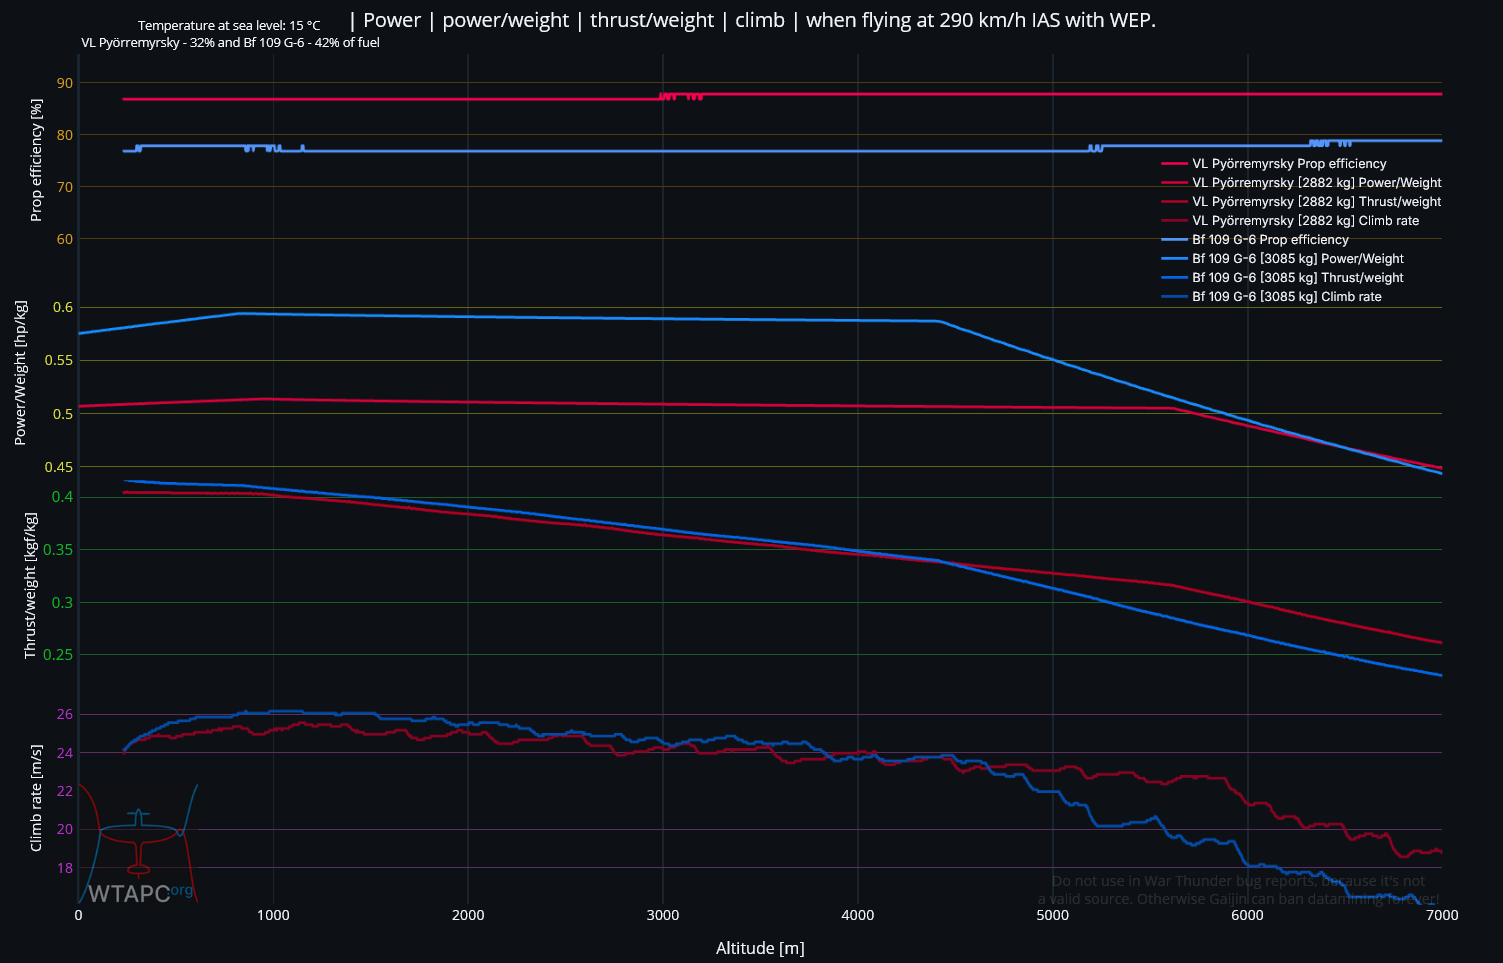
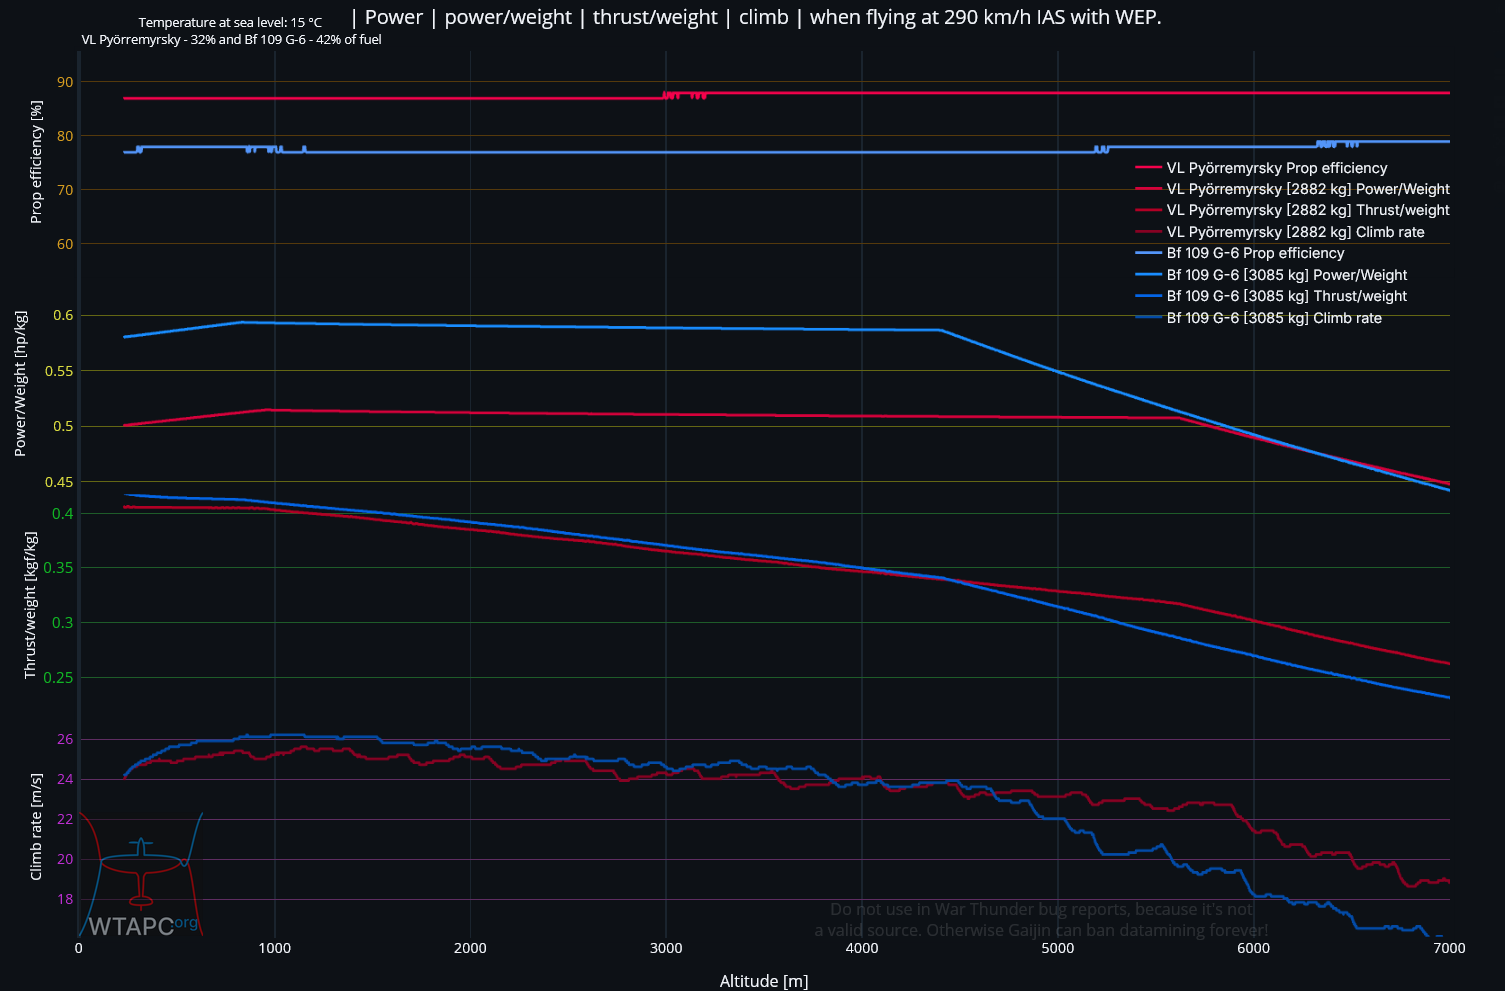
Improved p/w t/w climb graph - minor guide fix

diff --git a/src/lib/guide.svelte b/src/lib/guide.svelte
@@ -105,13 +105,13 @@
 		To clarify this, take a look at these 4 graphs:
 		<img id="prop_eff_graph" src="/images/g-6_vs_pyo.png" alt="Graph of power/weight, prop efficiency, thrust/weight and climb rate of Bf 109 G-6 and VL Pyoremyrrsky" />
 		
-		The graphs except power/weight were collected in game, while climbing in both aircraft at 290 kph IAS in test flight. 
-		The power/weight graph was made with WTAPC and it matches power/weight from test flight perfectly.
+		The all of them were collected in game, while climbing in both aircraft at 290 kph IAS in test flight. 
+		The power/weight is identical to the one from the calculator.
 		<br /><br />
 		You can clearly see that Bf 109 G-6 indeed climbs better than Pyörremyrsky up to 5km, but only slighly. The advantage is much smaller than power/weight would suggest. 
 		However, now compare climb rate with thrust/weight and you'll see these graphs look similar. 
 		It's because thrust/weight is the actual force that pulls the aircraft forward - it takes into accunt propeller efficiency and speed.
-		That's why the next goal for WTAPC is to implement propeller efficiency and thrust/weight. Thrust/weight takes propeller efficiency into account.
+		That's why the next goal for WTAPC is to implement propeller efficiency and thrust/weight.
 		<br /><br />
 		<h3>Conclusion:</h3>
 		VL Pyörremyrsky is better plane for it's Br than Bf 109 G-6 as it climbs better at high altitude and is more maneuverable.
